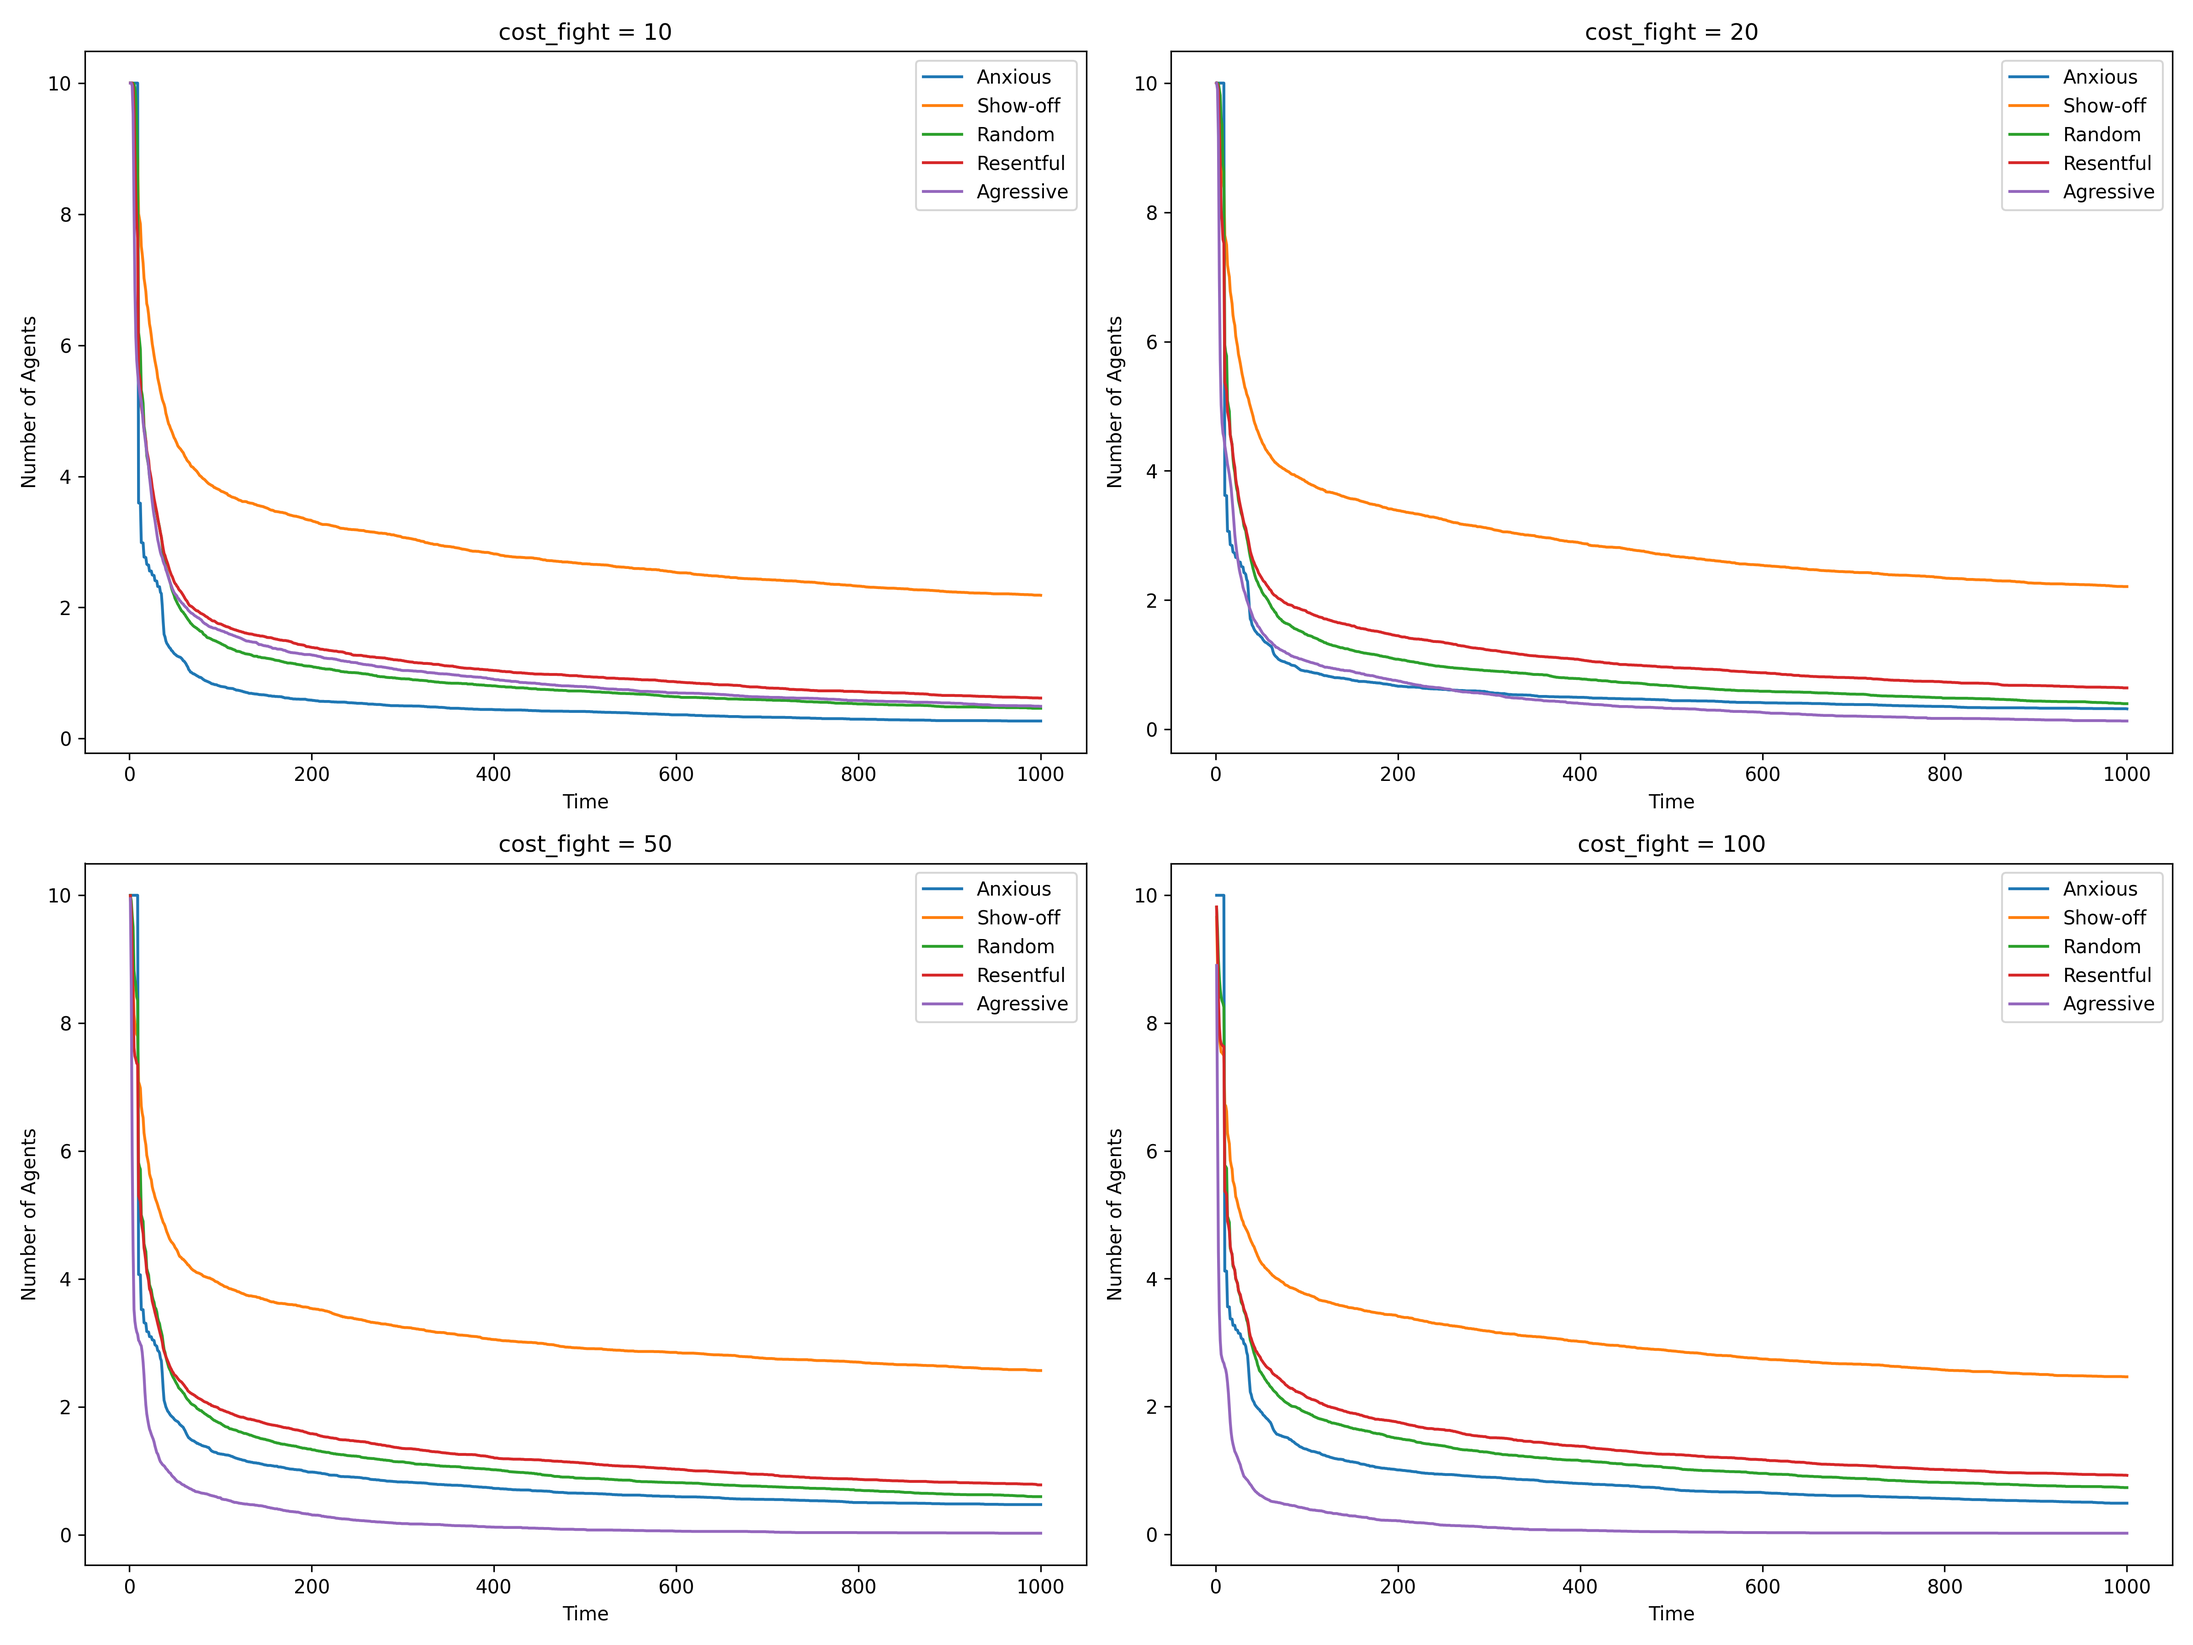
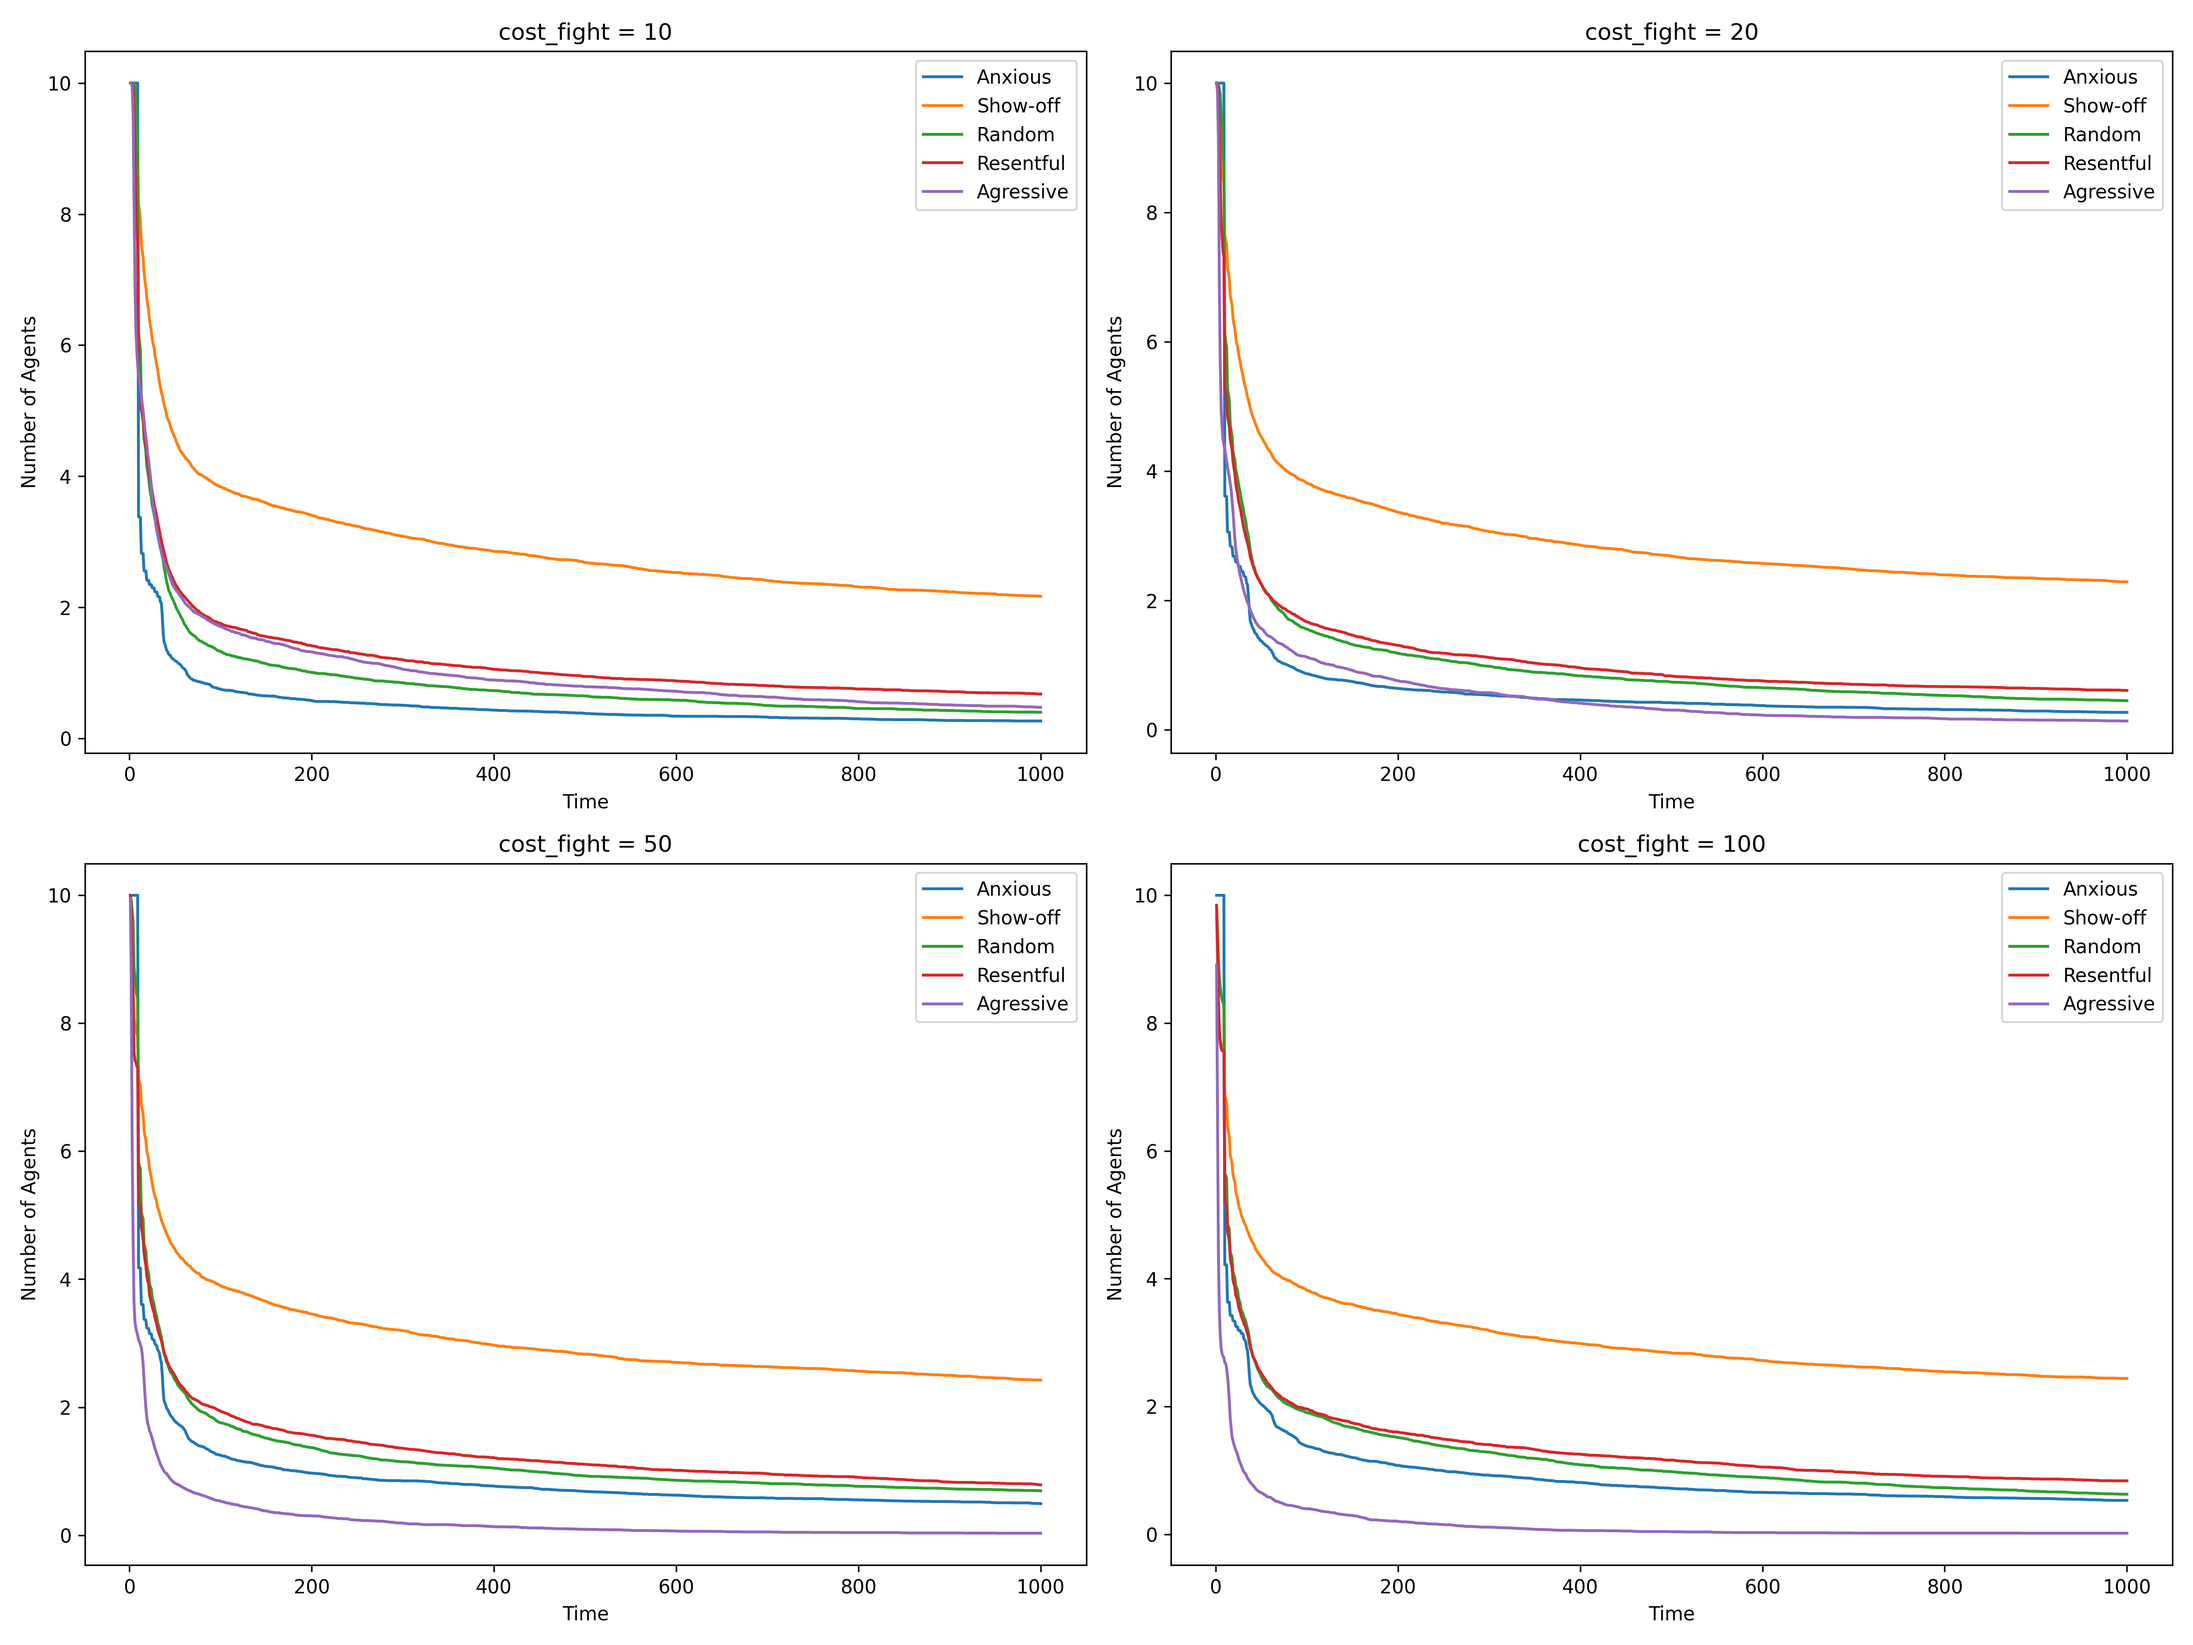
added more conditions

diff --git a/Type_experiment/Type_model.py b/Type_experiment/Type_model.py
@@ -20,10 +20,10 @@ class Type_Chimp_crew(Chimp_crew):
         self.type = None
         self.last_opp_type = -1
 
-    def intimidate(self, other_crew, prob_win, oasis):
+    def intimidate(self, other_crew, prob_win, oasis, cost_bluff=0):
+        won = 0
         if random.random() > prob_win: # crew loses
             self.unaccessible_oases.add(oasis) 
-            return 0
 
         else: # crew wins
             other_crew.oasis = None
@@ -31,12 +31,29 @@ class Type_Chimp_crew(Chimp_crew):
             other_crew.unaccessible_oases.add(oasis) 
             self.pos = oasis.pos
             self.oasis = oasis
-            return 'won'
+            won = 'won'
+        
+        # pay cost of bluffing in any event
+        self.energy -= cost_bluff
+        other_crew.energy -= cost_bluff
+        
+        return won
             
-    def fight(self, other_crew, prob_win, oasis, cost_fight):
-        if random.random() > prob_win: # crew loses
-            self.unaccessible_oases.add(oasis) 
+    def fight(self, other_crew, prob_win, oasis, cost_fight, constant_win=True):
+        # define if the crew wins or loses
+        lose = False
+        if constant_win:
+            if random.random() > prob_win: # when prob_win is constant - define winning prob solely by it
+                lose = True           
+        else: # condition wins on the differences between the crews
+            prob_win = self.energy / (self.energy + other_crew.energy + 0.00001) #to prevent division by zero
+            #if they are both at <= 0, they will be removed after this step anyways
+            if random.random() > prob_win: 
+                lose = True
 
+        # assign consequences
+        if lose:
+            self.unaccessible_oases.add(oasis)        
         else: # crew wins
             other_crew.oasis = None
             other_crew.pos = self.pos[:]
@@ -44,6 +61,7 @@ class Type_Chimp_crew(Chimp_crew):
             self.pos = oasis.pos
             self.oasis = oasis
 
+        # pay cost of fight in any event
         self.energy -= cost_fight
         other_crew.energy -= cost_fight
 
@@ -123,7 +141,12 @@ class Type_Model:
         self.grid = grid
 
 
-    def run(self, prob_win = 1/2, agressive = False):
+    def run(self, 
+            prob_win = 1/2, # default stable random prob of winning a fight or a bluff-fight
+            agressive = False, # default for not having type "agressive", adds sophisticated version of "agressive" if True
+            constant_win=True, # default for constant prob_win that is independent of size, makes fight dependent on size if False
+            cost_bluff = 0 # default is no cost, but you can pass it to see if the dynamics changes
+            ):
         """
         Run the model for one time-step
 
@@ -192,8 +215,13 @@ class Type_Model:
                     
                     #------------record the payoff------------
                     
-                    #____________DEFINED BY ARGUMENT agressive = ____________
+                    #____________DEFINED BY ARGUMENT agressive ____________
+                    '''
+                    Also accommodates the dependency of winning on the crew energy
+                    by adding an optional constant_win argument into the .fight method
+                    '''
                     if agressive:
+                                                
                         if crew.type == 0: #if anxious
                             crew.unaccessible_oases.add(oasis) #retreat
                         
@@ -201,21 +229,21 @@ class Type_Model:
                             crew.reclaim(other_crew, oasis) #always get their oasis
                             
                         elif crew.type == 1: #if show-off
-                            result = crew.intimidate(other_crew, prob_win, oasis) # prob 1/2 to win, but no cost of fight
+                            result = crew.intimidate(other_crew, prob_win, oasis, cost_bluff = cost_bluff) # prob 1/2 to win, but no/lower cost 
                         
                             #if the other one is no fighter, it just ends here, whatever the result was
                             #if the defender is a fighter, and they lost bluffing, then there is a fight    
                             if other_crew.type == 2 and result: #the crew won -> the other_crew lost
-                                crew.fight(other_crew, prob_win, oasis, self.cost_fight)
+                                crew.fight(other_crew, prob_win, oasis, self.cost_fight, constant_win=constant_win)
                         
                         elif crew.type == 2:
-                            crew.fight(other_crew, prob_win, oasis, self.cost_fight) #nothing depends on the defender, the crew just attacks
-                            
+                            crew.fight(other_crew, prob_win, oasis, self.cost_fight, constant_win=constant_win) #nothing depends on the defender, the crew just attacks
+                                    
                     #*******ORIGINAL VERSION BY BALTHAZAR, practically only type 0 and type 1*********
-                    '''
-                    Also accommodates primitive agressive type, corresponding to visualisation "with_agressive"
-                    type 0 + type 1 corresponds to "without_agressive"
-                    '''
+
+                    #Also accommodates primitive agressive type, corresponding to visualisation "with_agressive"
+                    #type 0 + type 1 corresponds to "without_agressive"
+
                     else:
                         if crew.type == 0 or crew.type < other_crew.type: # crew gets intimidated out by the defending crew
                             crew.unaccessible_oases.add(oasis)                 

diff --git a/Type_experiment/Type_plot_conditioned.py b/Type_experiment/Type_plot_conditioned.py
@@ -1,0 +1,106 @@
+from Type_model import Type_Model as Model
+import matplotlib.pyplot as plt
+import numpy as np
+from matplotlib import colors
+
+def quantile_counts_by_strategy(data_track, n_types, sim_length, q_low=0.33, q_high=0.66):
+    """
+    Returns three arrays of shape (n_types, sim_length) with the **average per-run**
+    number of agents in the low / mid / high energy buckets.
+    """
+    # gather energies for every strategy, every timestep, all simulations pooled
+    energies = [[[] for _ in range(sim_length)] for _ in range(n_types)]
+    for sim in data_track:            # one simulation
+        for t_idx, step in enumerate(sim):   # one timestep
+            for crew in step:
+                energies[crew.strat][t_idx].append(crew.energy)
+
+    # now compute thresholds + counts
+    low_counts  = np.zeros((n_types, sim_length))
+    mid_counts  = np.zeros_like(low_counts)
+    high_counts = np.zeros_like(low_counts)
+
+    for s in range(n_types):
+        for t_idx in range(sim_length):
+            e_arr = np.asarray(energies[s][t_idx])
+            if e_arr.size == 0:       # strategy extinct at this timestep
+                continue
+            q1, q2 = np.quantile(e_arr, [q_low, q_high])
+            # boolean masks
+            low_mask  = e_arr <  q1
+            mid_mask  = (e_arr >= q1) & (e_arr < q2)
+            high_mask = e_arr >= q2
+            # average per simulation so curves match your old scaling
+            low_counts[s, t_idx]  = low_mask.sum()  / n_sim
+            mid_counts[s, t_idx]  = mid_mask.sum()  / n_sim
+            high_counts[s, t_idx] = high_mask.sum() / n_sim
+
+    return low_counts, mid_counts, high_counts
+
+n_sim = 500 # default 500
+sim_length = 1000 # default 1000
+t = np.linspace(1, sim_length, sim_length)
+cost_fight_values = [10, 20, 50, 100]
+#n_types = 4
+#n_types_names = ['Anxious', 'Show-off', 'Random', 'Resentful']
+n_types = 5
+n_types_names = ['Anxious', 'Show-off', 'Random', 'Resentful', 'Agressive']
+
+fig, axs = plt.subplots(2, 2, figsize=(16, 12))
+axs = axs.flatten()
+fig2, axs2 = plt.subplots(2, 2, figsize=(16, 12))
+axs2 = axs2.flatten()
+
+for idx, cost_fight in enumerate(cost_fight_values):
+    data_track = []
+
+    for i in range(n_sim):
+        model = Model(10* n_types, 20, n_types, 20, cost_fight=cost_fight)
+        for j in range(sim_length):
+            model.run(agressive=True, constant_win=False, cost_bluff=cost_fight_values[0]) # default is no arguments
+        data_track.append(model.data_track[0])
+
+    n_types_over_time = []
+    for i in range(n_types):
+        n_types_i = np.array([[len([crew for crew in step if crew.strat == i]) for step in sim] for sim in data_track])
+        n_types_over_time.append(np.mean(n_types_i, axis=0))
+        axs[idx].plot(t, n_types_over_time[i], label=f"{n_types_names[i]}")
+
+    axs[idx].set_title(f'cost_fight = {cost_fight}')
+    axs[idx].set_xlabel('Time')
+    axs[idx].set_ylabel('Number of Agents')
+    axs[idx].legend()
+    
+
+    #*********EXTRA plot – absolute counts per energy-quantile per strategy***********
+
+    low_c, mid_c, high_c = quantile_counts_by_strategy(
+        data_track, n_types, sim_length)
+
+    cmap = plt.get_cmap('tab10')
+    for s in range(n_types):
+        base = cmap(s)
+        axs2[idx].plot(t, high_c[s], color=base, label=f'{n_types_names[s]} – high')
+        axs2[idx].plot(t, mid_c[s], color=base, linestyle='--', label=f'{n_types_names[s]} – mid')
+        axs2[idx].plot(t, low_c[s], color=base, linestyle=':', label=f'{n_types_names[s]} – low')
+    axs2[idx].set_title(f'Absolute counts by energy (cost_fight = {cost_fight})')
+    axs2[idx].set_xlabel('Time')
+    axs2[idx].set_ylabel('Avg. # agents per simulation')
+    axs2[idx].legend(ncol=3, fontsize='small')
+
+#fig.tight_layout()
+#fig.savefig("with_agressive_cost_win_F_cB10.png", dpi=300)
+fig2.tight_layout()
+fig2.savefig("with_agressive_cost_win_F_cB10_energies.png", dpi=300)
+
+'''
+Naming of the plots:
+- without agressive: the initial Balthazar's distiction between always retreating or sometimes attempting to fight, 
+and never really attempting to show off (because cost of fight always deduced)
+- with agressive: adding "agressive" type which is kind of third layer, it always fights, 
+but the "show-off" also fights, no distinction between bluff and fight
+- with agressive sophisticated: distinction between bluffing and fighting is introduced, no cost involved in bluffing, 1/2 chance of winning,
+cost involved in fighting, same chance of winning, if other agent is agressive, you'd have to fight anyways
+- with agressive constant win False: all the same as for "with agressive sophisticated", add conditioning the probability of
+winning the fight on the energy of the crews
+'''

diff --git a/Type_experiment/Type_plot.py b/Type_experiment/Type_plot.py
@@ -10,7 +10,6 @@ cost_fight_values = [10, 20, 50, 100]
 #n_types_names = ['Anxious', 'Show-off', 'Random', 'Resentful']
 n_types = 5
 n_types_names = ['Anxious', 'Show-off', 'Random', 'Resentful', 'Agressive']
-cost_fight_values = [10, 20, 50, 100]
 
 fig, axs = plt.subplots(2, 2, figsize=(16, 12))
 axs = axs.flatten()
@@ -21,7 +20,7 @@ for idx, cost_fight in enumerate(cost_fight_values):
     for i in range(n_sim):
         model = Model(10* n_types, 20, n_types, 20, cost_fight=cost_fight)
         for j in range(sim_length):
-            model.run()
+            model.run(agressive=True, constant_win=False, cost_bluff=cost_fight_values[0]) # default is no arguments
         data_track.append(model.data_track[0])
 
     n_types_over_time = []
@@ -36,7 +35,7 @@ for idx, cost_fight in enumerate(cost_fight_values):
     axs[idx].legend()
 
 plt.tight_layout()
-plt.savefig("with_agressive_sophisticated.png", dpi=300)
+plt.savefig("with_agressive_const_win_F_cB.png", dpi=300)
 plt.show()
 
 '''
@@ -47,4 +46,6 @@ and never really attempting to show off (because cost of fight always deduced)
 but the "show-off" also fights, no distinction between bluff and fight
 - with agressive sophisticated: distinction between bluffing and fighting is introduced, no cost involved in bluffing, 1/2 chance of winning,
 cost involved in fighting, same chance of winning, if other agent is agressive, you'd have to fight anyways
+- with agressive constant win False: all the same as for "with agressive sophisticated", add conditioning the probability of
+winning the fight on the energy of the crews
 '''
